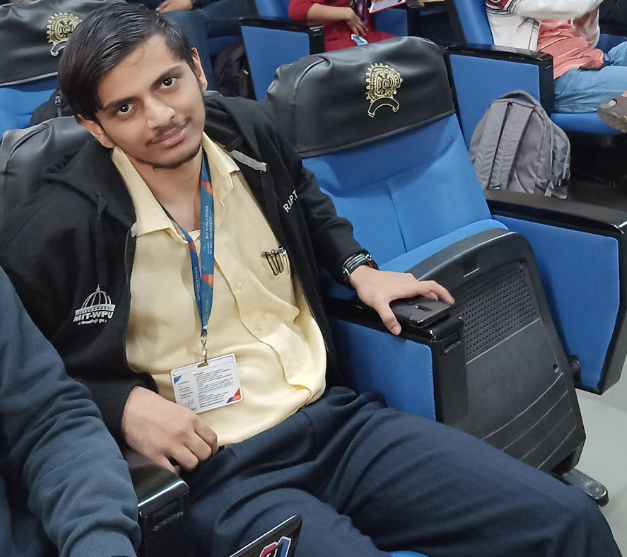
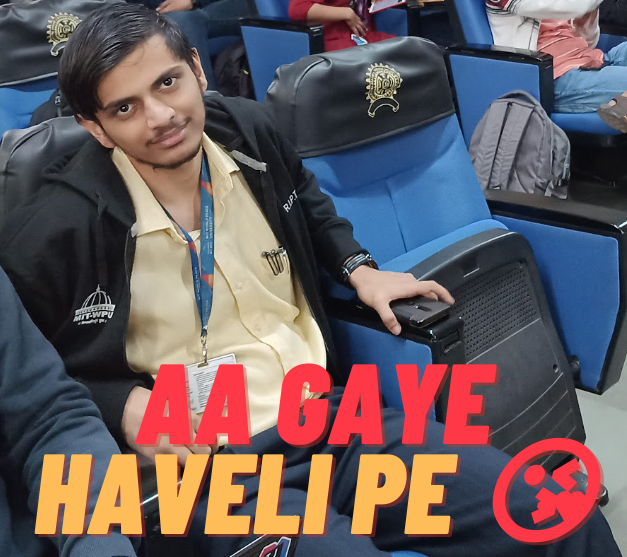
Added naughty fun

Changed region(s): [[0.0303, 0.6409, 0.8182, 0.9767], [0.7879, 0.763, 0.9697, 0.9767]]

diff --git a/index.html b/index.html
@@ -11,11 +11,12 @@
 <body>
     <script src="script.js">
     </script>
-    <img class="header-img" src="header-bugre.png" alt="bugre">
     <h1>Hi, this is Bugre: The Bug Man</h1>
+    <img class="header-img" src="bugre-qr.png" alt="bugre">
+    <p>Scan me for naughty fun 💋</p>
     <div class="bugre-container">
-        <p class="decipher"><b>I don't find bugs, bugs find me </b></p>
-        <p><b>I know how to center align a div</b></p>
+        <p class="decipher"><b>" I don't find bugs, bugs find me "</b></p>
+        <h1>My Work</h1>
     </div>
 </body>
 

diff --git a/styles.css b/styles.css
@@ -1,5 +1,9 @@
 @import url('https://fonts.googleapis.com/css2?family=Comic+Neue&display=swap');
 
+body {
+    background-color: yellow;
+}
+
 p.decipher {
   font-family: 'Comic Neue', cursive;
   color: blue;
@@ -9,8 +13,4 @@ p.decipher {
 
 .bugre-container {
   text-align: center;
-}
-
-.header-img {
-    margin-left: 12px;
 }
